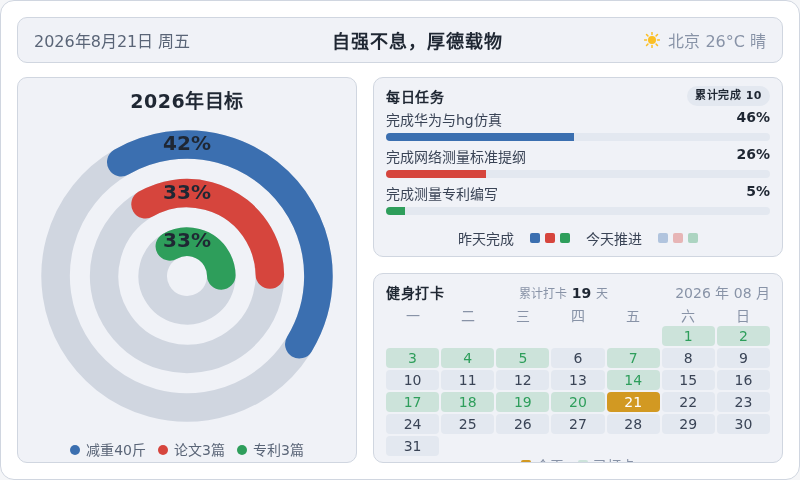
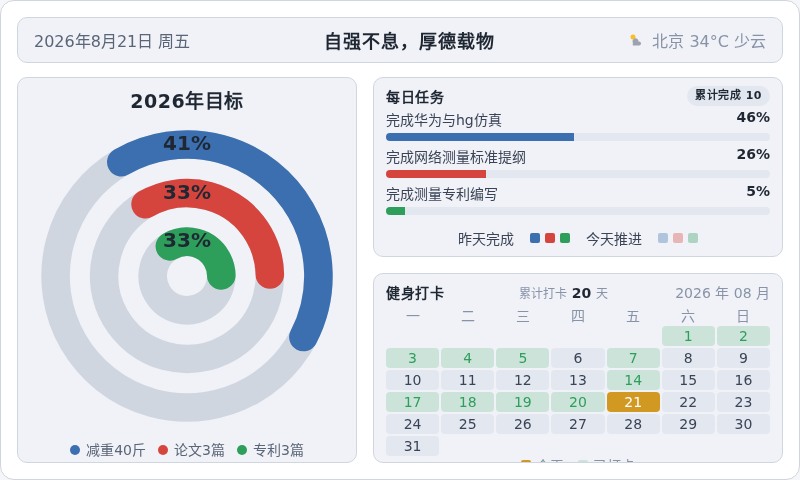
chore: 每日看板刷新 2026-08-21

diff --git a/output/dashboard.html b/output/dashboard.html
@@ -188,8 +188,8 @@
       <div class="tb-date" id="tbDate">2026年8月21日 周五</div>
       <div class="tb-slogan">自强不息，厚德载物</div>
       <div class="tb-weather">
-        <svg width="16" height="16" viewBox="0 0 16 16" aria-hidden="true"><circle cx="8" cy="8" r="4" fill="#fbbf24"/><g stroke="#fbbf24" stroke-width="1.5" stroke-linecap="round"><line x1="8" y1="0.5" x2="8" y2="2.5"/><line x1="8" y1="13.5" x2="8" y2="15.5"/><line x1="0.5" y1="8" x2="2.5" y2="8"/><line x1="13.5" y1="8" x2="15.5" y2="8"/><line x1="2.5" y1="2.5" x2="3.9" y2="3.9"/><line x1="12.1" y1="12.1" x2="13.5" y2="13.5"/><line x1="13.5" y1="2.5" x2="12.1" y2="3.9"/><line x1="3.9" y1="12.1" x2="2.5" y2="13.5"/></g></svg>
-        <span>北京 26°C 晴</span>
+        <svg width="16" height="16" viewBox="0 0 16 16" aria-hidden="true"><circle cx="5" cy="5" r="2.5" fill="#fbbf24"/><path d="M5 11 a3 3 0 1 1 5.5 -1.5 h0.5 a2 2 0 1 1 0 4 H5 a2.5 2.5 0 0 1 0 -2.5z" fill="#9ca3af"/></svg>
+        <span>北京 34°C 少云</span>
       </div>
     </div>
     <div class="content">
@@ -200,9 +200,9 @@
           <svg viewBox="0 0 210 210" width="300" height="300" role="img" aria-label="三环进度仪表盘">
             <title>2026年目标三环进度</title>
             <g transform="rotate(-120 105 105)">
-              <circle cx="105" cy="105" r="92" fill="none" stroke="#d0d6e0" stroke-width="20"/><circle cx="105" cy="105" r="92" fill="none" stroke="#3b6fb0" stroke-width="20" stroke-linecap="round" stroke-dasharray="242.78 578.05"/><circle cx="105" cy="105" r="58" fill="none" stroke="#d0d6e0" stroke-width="20"/><circle cx="105" cy="105" r="58" fill="none" stroke="#d6453d" stroke-width="20" stroke-linecap="round" stroke-dasharray="120.26 364.42"/><circle cx="105" cy="105" r="24" fill="none" stroke="#d0d6e0" stroke-width="20"/><circle cx="105" cy="105" r="24" fill="none" stroke="#2e9e5b" stroke-width="20" stroke-linecap="round" stroke-dasharray="49.76 150.80"/>
+              <circle cx="105" cy="105" r="92" fill="none" stroke="#d0d6e0" stroke-width="20"/><circle cx="105" cy="105" r="92" fill="none" stroke="#3b6fb0" stroke-width="20" stroke-linecap="round" stroke-dasharray="237.00 578.05"/><circle cx="105" cy="105" r="58" fill="none" stroke="#d0d6e0" stroke-width="20"/><circle cx="105" cy="105" r="58" fill="none" stroke="#d6453d" stroke-width="20" stroke-linecap="round" stroke-dasharray="120.26 364.42"/><circle cx="105" cy="105" r="24" fill="none" stroke="#d0d6e0" stroke-width="20"/><circle cx="105" cy="105" r="24" fill="none" stroke="#2e9e5b" stroke-width="20" stroke-linecap="round" stroke-dasharray="49.76 150.80"/>
             </g>
-            <text x="105" y="13" text-anchor="middle" dominant-baseline="middle" fill="#1f2733" font-size="14" font-weight="700">42%</text><text x="105" y="47" text-anchor="middle" dominant-baseline="middle" fill="#1f2733" font-size="14" font-weight="700">33%</text><text x="105" y="81" text-anchor="middle" dominant-baseline="middle" fill="#1f2733" font-size="14" font-weight="700">33%</text>
+            <text x="105" y="13" text-anchor="middle" dominant-baseline="middle" fill="#1f2733" font-size="14" font-weight="700">41%</text><text x="105" y="47" text-anchor="middle" dominant-baseline="middle" fill="#1f2733" font-size="14" font-weight="700">33%</text><text x="105" y="81" text-anchor="middle" dominant-baseline="middle" fill="#1f2733" font-size="14" font-weight="700">33%</text>
           </svg>
         </div>
         <div class="legend"><div class="legend-row"><span class="dot" style="background:#3b6fb0"></span><span class="lg-name">减重40斤</span></div><div class="legend-row"><span class="dot" style="background:#d6453d"></span><span class="lg-name">论文3篇</span></div><div class="legend-row"><span class="dot" style="background:#2e9e5b"></span><span class="lg-name">专利3篇</span></div></div>
@@ -242,7 +242,7 @@
           <span class="panel-title" style="margin:0;color:#1f2733">健身打卡</span>
           <span class="cal-stats">
             <span class="cal-stats-label">累计打卡</span>
-            <span class="cal-stats-num" style="color:#1f2733">19</span>
+            <span class="cal-stats-num" style="color:#1f2733">20</span>
             <span class="cal-stats-label">天</span>
           </span>
           <span class="cal-date">2026 年 08 月</span>
